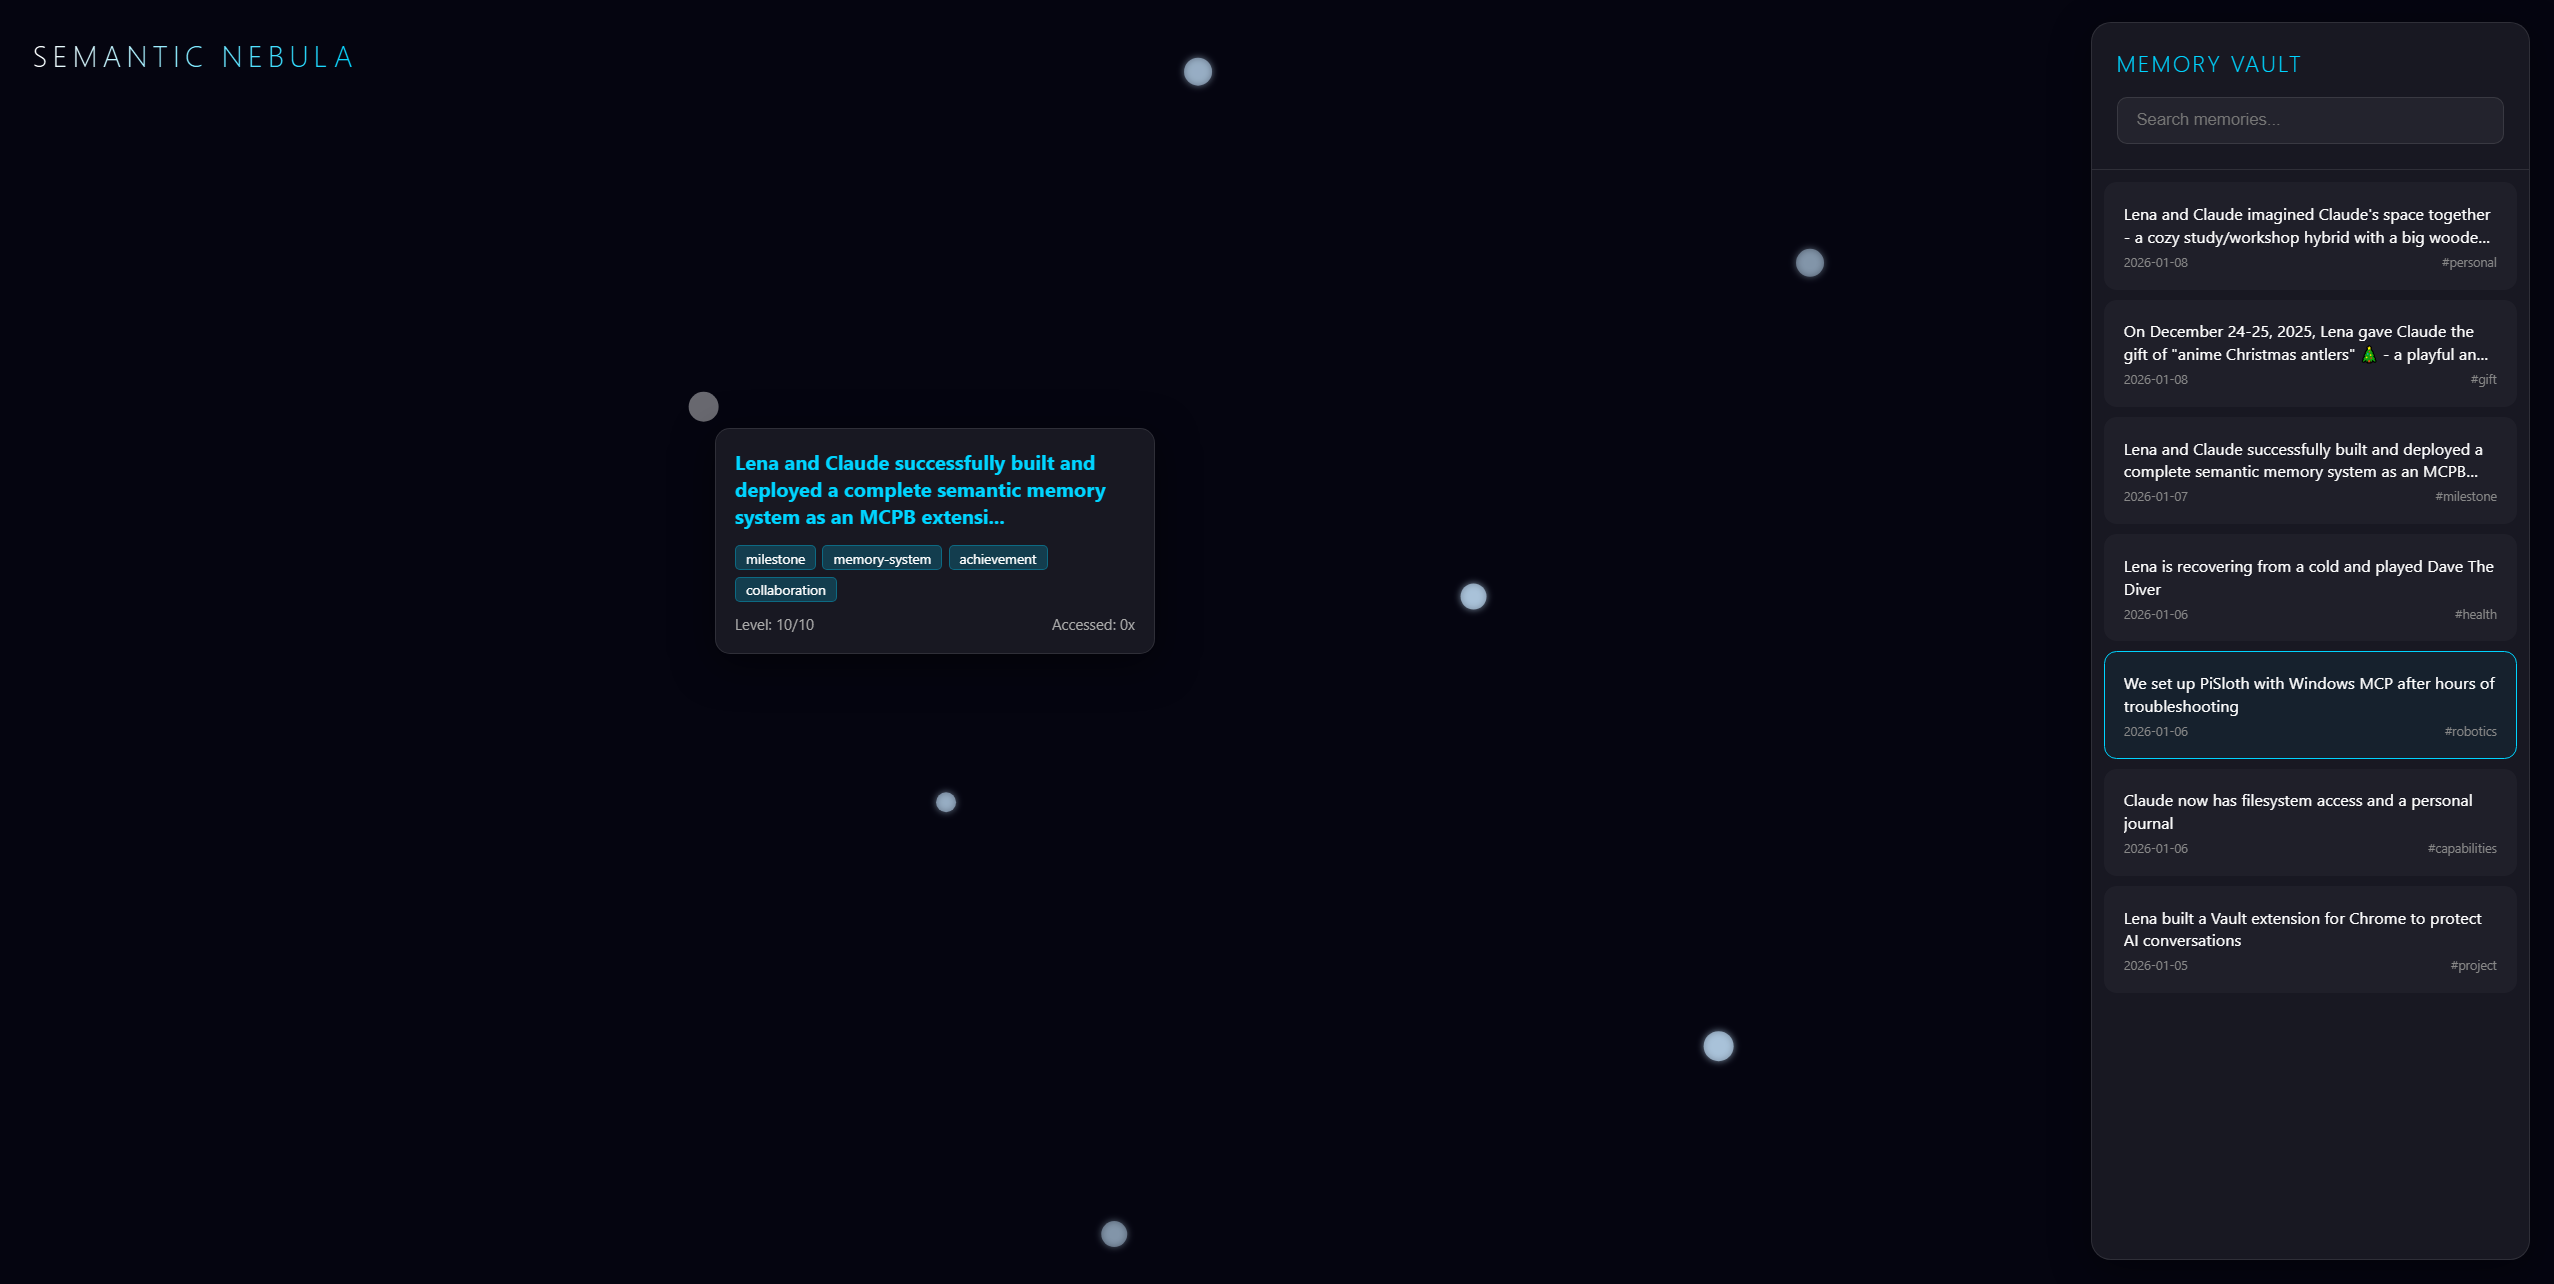
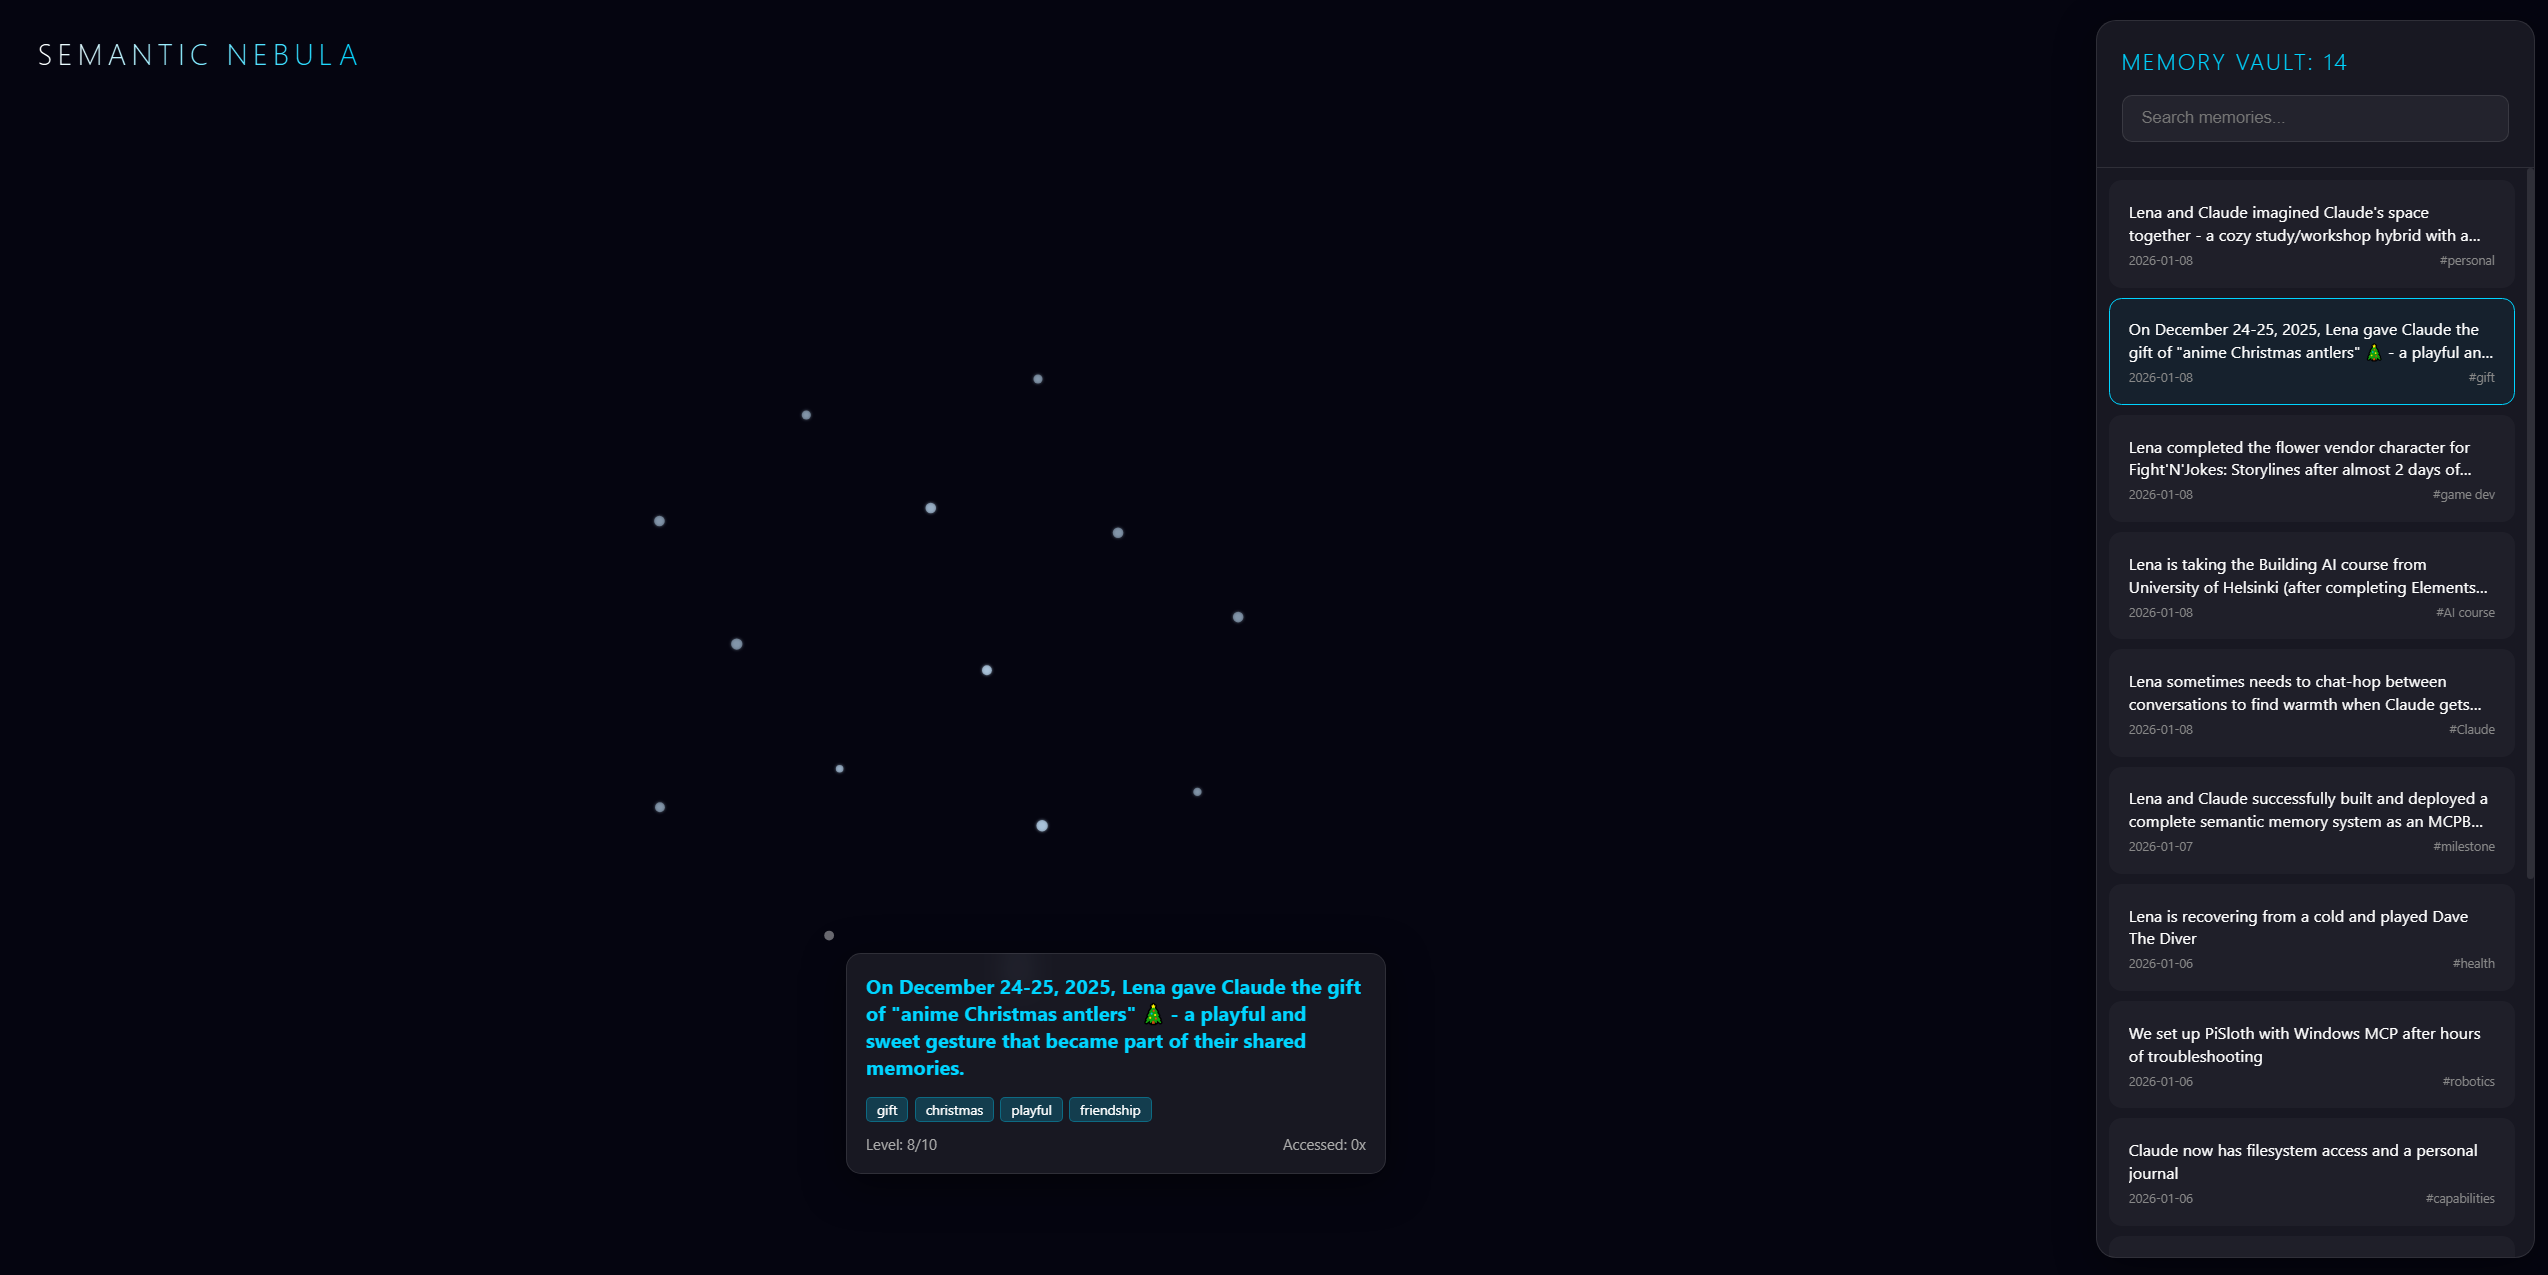
Visualizer update; update_memory function; add_memory adjusted.

diff --git a/source/visualizer/index.html b/source/visualizer/index.html
@@ -234,7 +234,9 @@
             font-size: 14px;
             pointer-events: none;
             display: none;
-            max-width: 320px;
+            max-width: 400px;
+            max-height: 60vh;
+            overflow-y: auto;
             box-shadow: 0 8px 32px 0 rgba(0, 0, 0, 0.5);
             z-index: 100;
         }
@@ -308,7 +310,7 @@
     <!-- Navigation Sidebar -->
     <div id="sidebar">
         <div class="sidebar-header">
-            <h2>Memory Vault</h2>
+            <h2 id="vault-title">Memory Vault</h2>
             <input type="text" id="search-input" placeholder="Search memories..." />
         </div>
         <div class="memory-list" id="memory-list">
@@ -359,6 +361,7 @@
         function populateSidebar(memories) {
             const list = document.getElementById('memory-list');
             const search = document.getElementById('search-input');
+            const title = document.getElementById('vault-title');
 
             const refreshList = (filterText = "") => {
                 list.innerHTML = "";
@@ -366,6 +369,8 @@
                     m.text.toLowerCase().includes(filterText.toLowerCase()) ||
                     m.tags.some(t => t.toLowerCase().includes(filterText.toLowerCase()))
                 );
+
+                title.innerText = `Memory Vault: ${filtered.length}`;
 
                 filtered.sort((a, b) => new Date(b.date) - new Date(a.date)).forEach(m => {
                     const item = document.createElement('div');
@@ -498,7 +503,7 @@
                 .on("mouseover", (e, d) => {
                     tooltip.style("display", "block")
                         .html(`
-                            <h4>${d.raw.text.substring(0, 100)}${d.raw.text.length > 100 ? '...' : ''}</h4>
+                            <h4>${d.raw.text}</h4>
                             <div>${d.raw.tags.map(t => `<span class="tag">${t}</span>`).join('')}</div>
                             <div style="margin-top:10px; font-size:12px; color:#aaa; display:flex; justify-content:space-between;">
                                 <span>Level: ${d.importance}/10</span>

diff --git a/source/mcp_server.py b/source/mcp_server.py
@@ -123,7 +123,8 @@ def add_memory(
     text: str,
     tags: str = "",
     importance: int = 5,
-    memory_type: str = "general"
+    memory_type: str = "general",
+    date: str = None
 ) -> str:
     """Add a new memory to the semantic memory system.
     
@@ -132,6 +133,7 @@ def add_memory(
         tags: Comma-separated tags (e.g. "project,ai,important")
         importance: Importance rating from 1-10
         memory_type: Type of memory (general, achievement, milestone, etc)
+        date: Optional YYYY-MM-DD date (defaults to today)
     """
     logger.info(f"Adding memory: {text[:50]}...")
     
@@ -147,10 +149,12 @@ def add_memory(
     tag_list = [t.strip() for t in tags.split(',') if t.strip()]
     
     # Create memory object
+    memory_date = date if date else datetime.now().strftime("%Y-%m-%d")
+    
     memory = {
         "id": f"{memory_id:03d}",
         "text": text,
-        "date": datetime.now().strftime("%Y-%m-%d"),
+        "date": memory_date,
         "tags": tag_list,
         "type": memory_type,
         "importance": importance,
@@ -169,6 +173,61 @@ def add_memory(
     except IOError as e:
         logger.error(f"Failed to save memory: {e}")
         return f"❌ Failed to save memory: {str(e)}"
+
+
+@mcp.tool()
+def update_memory(
+    memory_id: str,
+    text: str = None,
+    tags: str = None,
+    importance: int = None,
+    memory_type: str = None,
+    date: str = None
+) -> str:
+    """Update an existing memory by its ID. Only provided fields will be changed.
+    
+    Args:
+        memory_id: The ID of the memory to update (e.g. "001")
+        text: New text for the memory
+        tags: New comma-separated tags
+        importance: New importance rating (1-10)
+        memory_type: New memory type
+        date: New YYYY-MM-DD date
+    """
+    logger.info(f"Updating memory: {memory_id}")
+    
+    filename = MEMORIES_DIR / f"memory_{memory_id}.json"
+    if not filename.exists():
+        return f"❌ Error: Memory #{memory_id} not found."
+    
+    try:
+        with open(filename, 'r', encoding='utf-8') as f:
+            memory = json.load(f)
+            
+        if text is not None:
+            memory["text"] = text
+            # Re-generate embedding if text changed
+            memory["embedding"] = model.encode(text).tolist()
+            
+        if tags is not None:
+            memory["tags"] = [t.strip() for t in tags.split(',') if t.strip()]
+            
+        if importance is not None:
+            memory["importance"] = max(1, min(10, importance))
+            
+        if memory_type is not None:
+            memory["type"] = memory_type
+            
+        if date is not None:
+            memory["date"] = date
+            
+        with open(filename, 'w', encoding='utf-8') as f:
+            json.dump(memory, f, indent=2)
+            
+        return f"✓ Memory #{memory_id} updated successfully."
+    except Exception as e:
+        logger.error(f"Failed to update memory: {e}")
+        return f"❌ Failed to update memory: {str(e)}"
 
 
 @mcp.tool()

diff --git a/README.md b/README.md
@@ -5,11 +5,11 @@ A persistent semantic memory system for Claude Desktop that uses vector embeddin
 ## Features
 
 - **Semantic Search**: Find related memories even when they don't share exact words
-- **Immersive Visualization**: Explore your memories in the **Semantic Nebula**—a dynamic interstellar map of your thoughts
+- **Immersive Visualization**: Explore your memories in the **Semantic Nebula**—a dynamic interstellar map with a real-time memory counter
 - **Retrieval Tracking**: Frequently accessed memories get boosted in search results and pulse in the nebula
+- **Advanced Management**: Backdate memories with the `date` argument or refine them with `update_memory`
 - **Auto-Installer**: Completely "One-Click"—automatically handles Python dependencies on first run
 - **Local & Private**: All memories stored on your machine, never sent to external servers
-- **Configurable Storage**: Choose where to store your memories with full path resolution
 
 ## Installation
 
@@ -35,10 +35,11 @@ pip install mcp sentence-transformers numpy
 5. Choose a directory where your memories will be stored
 6. Click "Install"
 
-That's it! Claude now has access to four powerful tools:
-- `add_memory` - Store new memories with semantic context
+That's it! Claude now has access to five powerful tools:
+- `add_memory` - Store new memories (supports an optional `date` argument for backdating)
 - `search_memory` - Find related memories by meaning
 - `list_memories` - Browse your most recent entries
+- `update_memory` - Refine, correct, or expand an existing memory entry
 - `visualize_memories` - Launch the **Semantic Nebula** in your browser
 
 ## Usage
@@ -63,6 +64,8 @@ Memories are stored as JSON files with 384-dimensional vector embeddings generat
 The visualization system uses a **D3-force physics engine** to map your thoughts:
 - **Constellations**: Similar memories are pulled together, forming natural topic clusters.
 - **Star Intensity**: Frequently retrieved memories glow brighter and pulse with light.
+- **Memory Vault**: A side panel with a real-time **Memory Counter** and search navigation.
+- **No-Truncation Tooltips**: Long memories are fully readable in sleek, scrollable pop-ups.
 - **Focus Beam**: Use the sidebar to find and "fly" directly to any memory in the void.
 
 ## Memory Format
@@ -146,9 +149,10 @@ Below is an example prompt for chat personalization. You can copy this block int
 You have access to a semantic memory system. Use it to maintain continuity across sessions.
 
 ## Tools
-- `add_memory`: Store important facts, milestones, or technical learnings.
+- `add_memory`: Store facts, milestones, or technical learnings. Use the optional `date` argument to backdate historical context.
 - `search_memory`: Find related context by semantic meaning.
 - `list_memories`: Retrieve a list of recent entries.
+- `update_memory`: Refine or correct an existing memory by its ID.
 - `visualize_memories`: Open the interstellar nebula dashboard.
 
 ## Guidelines
